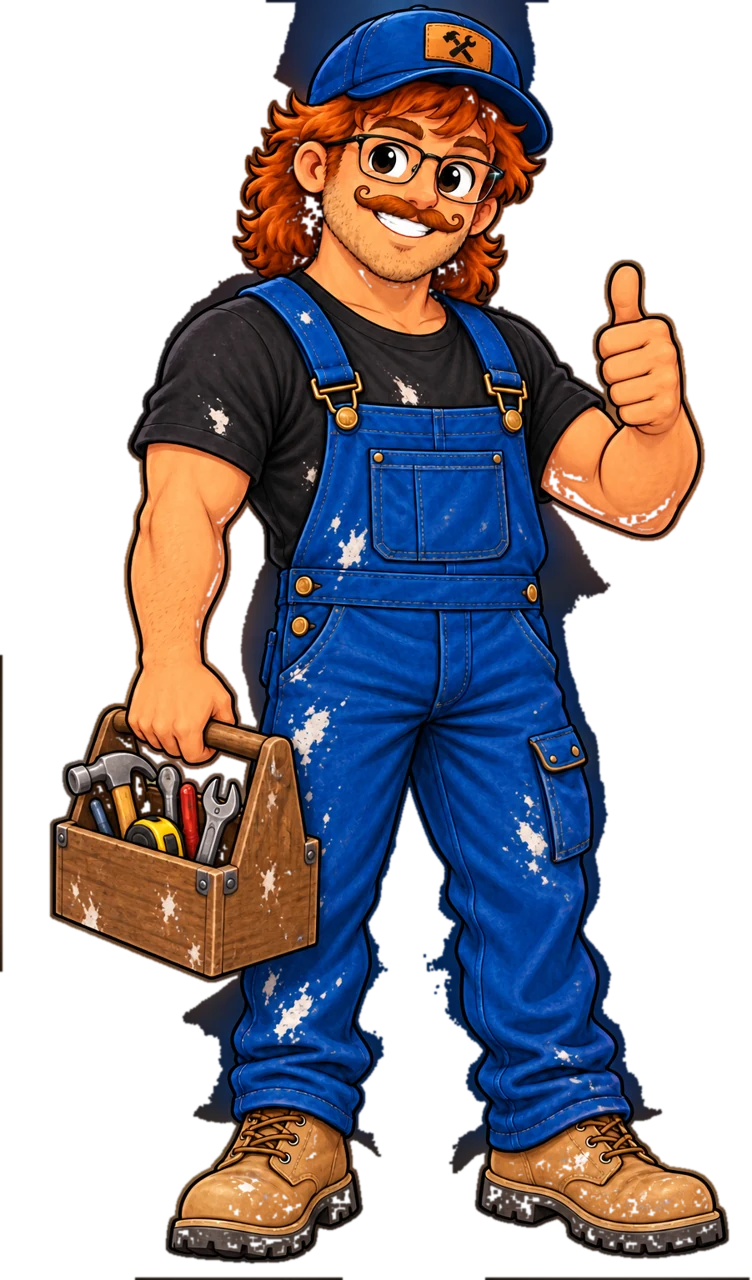
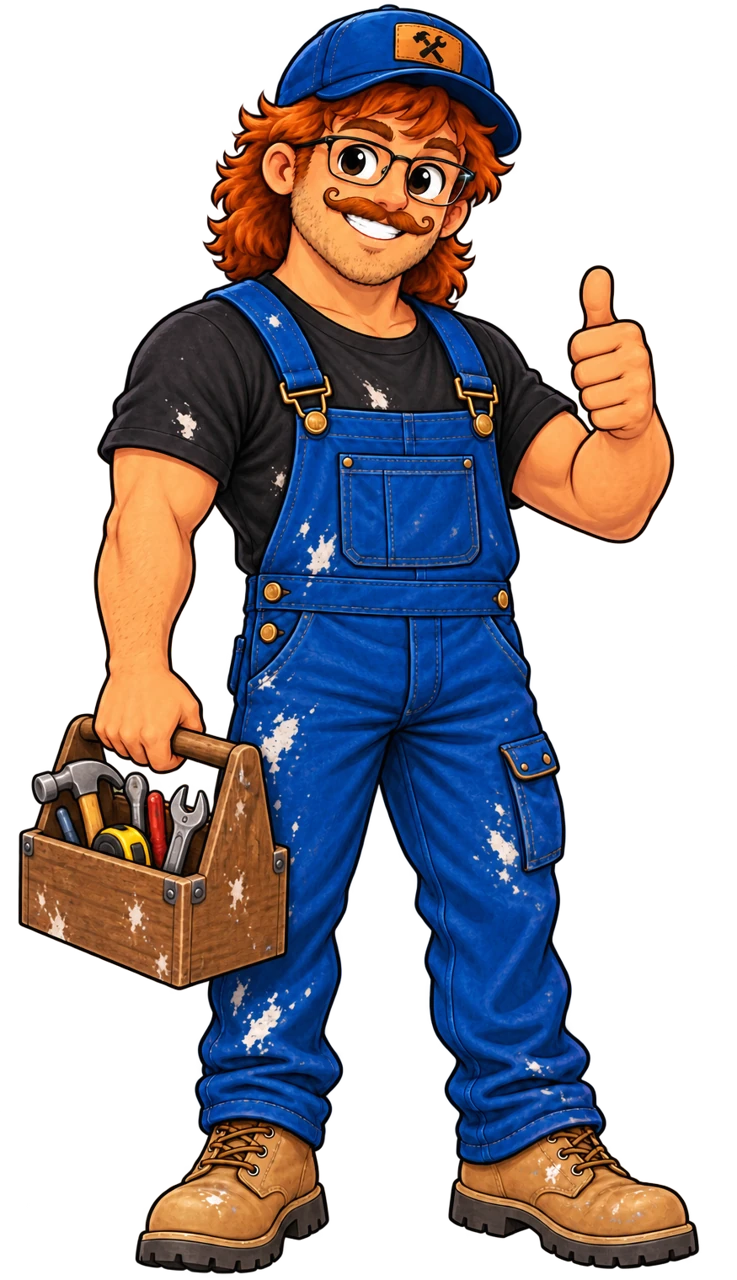
Use the drawings exactly as they came
They already had transparent backgrounds. My first pass opened them as RGB,
which flattens transparency onto black, so I cut out a background that was
never there and damaged his clothes doing it. Originals in, edits out.

diff --git a/about.html b/about.html
@@ -85,7 +85,7 @@
     <div class="feature-row">
       <div class="reveal d1">
         <div class="media-frame" style="aspect-ratio:4/5">
-          <img src="assets/img/bryan-toolbox-tile.jpg" class="figure-tile" alt="An illustration of Bryan with his toolbox, thumb up" loading="lazy">
+          <img src="assets/img/bryan-toolbox.webp" class="work-figure" alt="An illustration of Bryan with his toolbox, thumb up" loading="lazy">
         </div>
       </div>
       <div class="reveal">

diff --git a/services.html b/services.html
@@ -164,7 +164,7 @@
       </div>
       <div class="reveal d1">
         <div class="media-frame">
-          <img src="assets/img/bryan-toolbox-tile.jpg" class="figure-tile" alt="An illustration of Bryan carrying his toolbox, thumb up" loading="lazy">
+          <img src="assets/img/bryan-toolbox.webp" class="work-figure" alt="An illustration of Bryan carrying his toolbox, thumb up" loading="lazy">
         </div>
       </div>
     </div>
